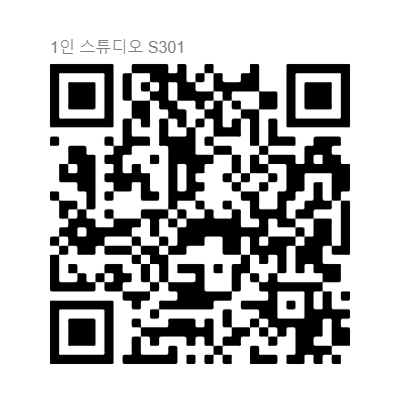
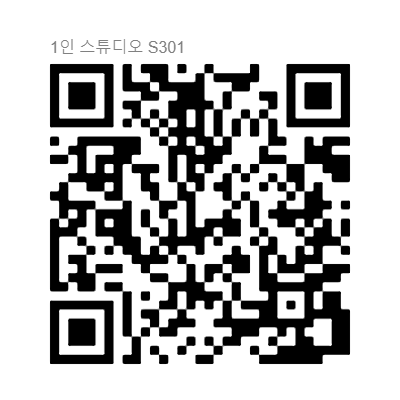
fix]S301호 링크 및 QR 수정

diff --git a/src/components/RoomComponent.jsx b/src/components/RoomComponent.jsx
@@ -66,7 +66,7 @@ export default function RoomComponent() {
       );
     } else if (param === "3f_S301") {
       setRoomNum(
-        "https://twinmotion.unrealengine.com/panorama/GAuhMVVPgy_qeHro"
+        "https://twinmotion.unrealengine.com/panorama/BGqNJ8RqYd_9FGNO"
       );
     } else if (param === "3f_S303") {
       setRoomNum(
